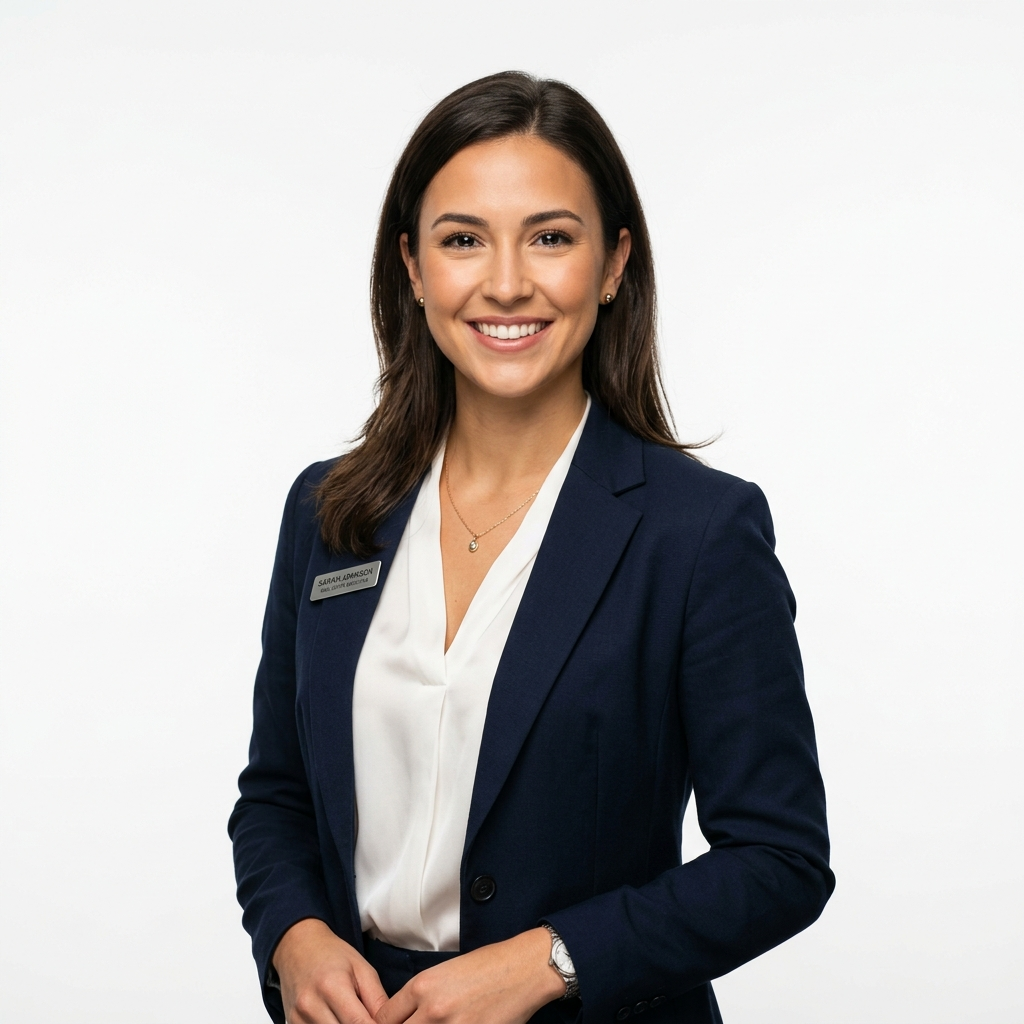
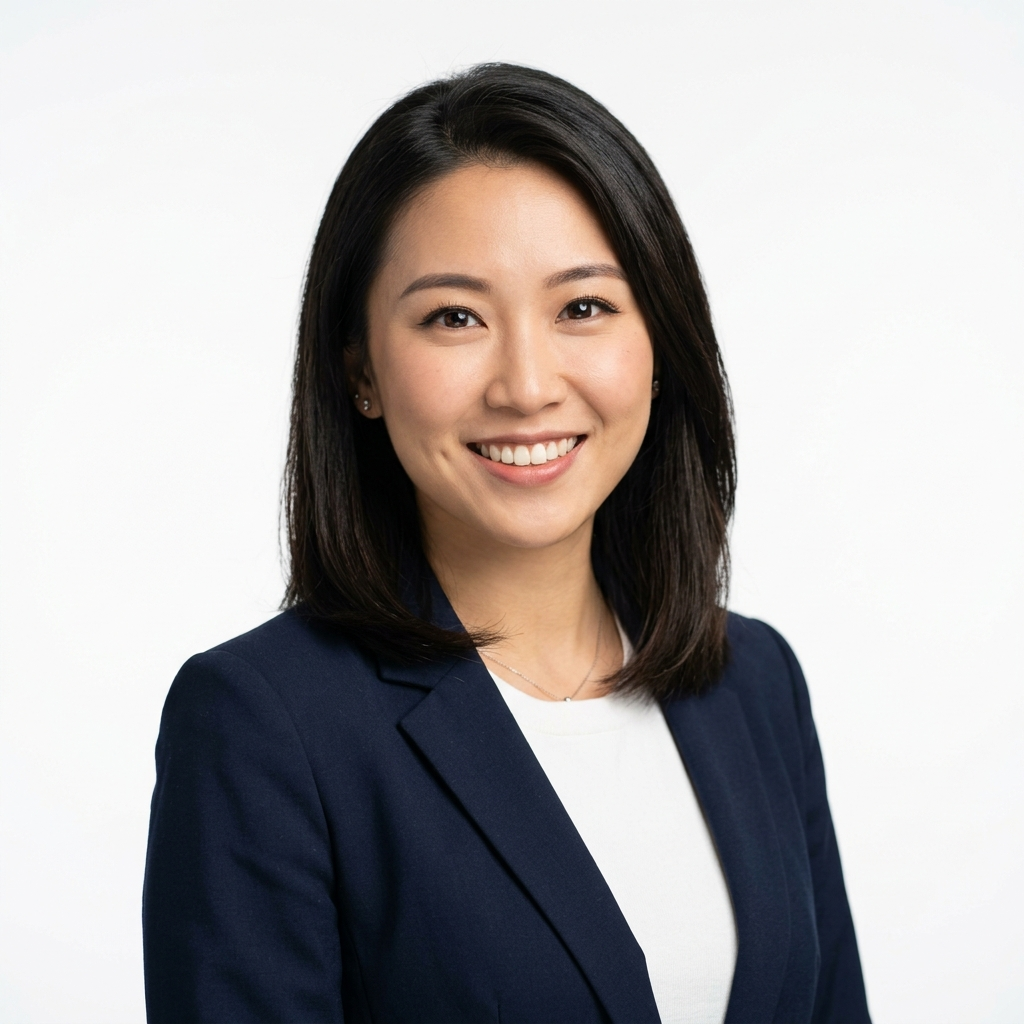
fix: zoom cara ejecutiva en boton whatsapp con nueva foto y object-position

diff --git a/src/components/ui/WhatsAppButton.tsx b/src/components/ui/WhatsAppButton.tsx
@@ -111,7 +111,7 @@ export function WhatsAppButton() {
               src="/ejecutiva-whatsapp.png"
               alt="Ejecutiva Activos en Red"
               fill
-              className="object-cover object-top"
+              className="object-cover object-[center_10%] scale-125"
             />
           </div>
 
@@ -142,7 +142,7 @@ export function WhatsAppButton() {
                     alt="Ejecutiva"
                     width={56}
                     height={56}
-                    className="object-cover object-top w-full h-full"
+                    className="object-cover object-[center_10%] scale-125 w-full h-full"
                   />
                 </div>
                 <div>
